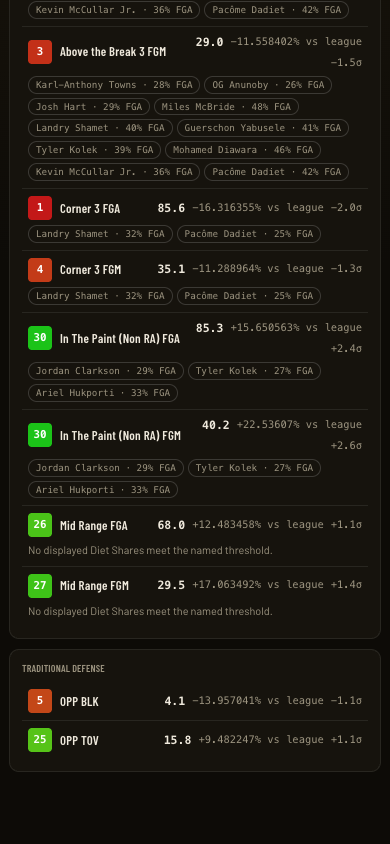
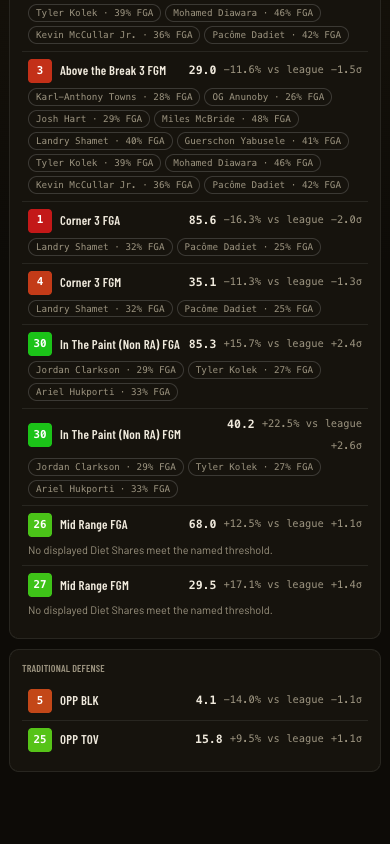
Format matchup percentages to one decimal

diff --git a/src/matchups/MatchupDetailPage.test.js b/src/matchups/MatchupDetailPage.test.js
@@ -83,8 +83,8 @@ const matchup = {
             sliceKey: 'transition',
             label: 'Transition',
             markets: ['PTS', 'FGA'],
-            season: value(18.4, 12, 1.4, 27),
-            last15: value(15.2, -8, -1.1, 5),
+            season: value(18.4, 12.34, 1.4, 27),
+            last15: value(15.2, -8.26, -1.1, 5),
           },
           {
             key: 'isolation',
@@ -275,7 +275,7 @@ test('toggles delivered windows and applies a two-sided sigma filter without ref
   expect(screen.getByText('Above-break three')).toBeVisible();
   expect(screen.queryByText('Isolation')).not.toBeInTheDocument();
   expect(screen.getByText('1 row hidden near league average.')).toBeVisible();
-  expect(screen.getByText('+12% vs league')).toBeVisible();
+  expect(screen.getByText('+12.3% vs league')).toBeVisible();
   expect(
     screen.queryByRole('heading', { name: 'Traditional defensive columns' }),
   ).not.toBeInTheDocument();
@@ -289,7 +289,7 @@ test('toggles delivered windows and applies a two-sided sigma filter without ref
   ).toBeVisible();
 
   await userEvent.click(screen.getByRole('button', { name: 'Last 15' }));
-  expect(screen.getByText('-8% vs league')).toBeVisible();
+  expect(screen.getByText('-8.3% vs league')).toBeVisible();
   expect(screen.getByText(/19% poss/)).toBeVisible();
   expect(fetchMatchup).toHaveBeenCalledTimes(1);
 
@@ -304,6 +304,7 @@ test('toggles delivered windows and applies a two-sided sigma filter without ref
   await userEvent.click(screen.getByRole('button', { name: 'All' }));
   await userEvent.click(screen.getByRole('button', { name: 'All deviations' }));
   expect(screen.getByText('Isolation')).toBeVisible();
+  expect(screen.getByText('+4.0% vs league')).toBeVisible();
   expect(fetchMatchup).toHaveBeenCalledTimes(1);
 });
 

diff --git a/e2e/specs/matchup-detail.spec.js b/e2e/specs/matchup-detail.spec.js
@@ -248,8 +248,8 @@ test('@critical user opens a Defense Sheet and changes local spotting controls',
   await expect(page.getByText('Backcourt PTS')).toHaveCount(0);
   await expect(page.getByText('Isolation PTS')).toHaveCount(0);
   await expect(page.getByText('1 row hidden near league average.')).toBeVisible();
-  await expect(page.getByText('+12% vs league')).toBeVisible();
-  await expect(page.getByText('-11% vs league')).toBeVisible();
+  await expect(page.getByText('+12.0% vs league')).toBeVisible();
+  await expect(page.getByText('-11.0% vs league')).toBeVisible();
   await expect(page.getByText(/LeBron James · 19% poss/)).toBeVisible();
   await expect(page.getByText(/Austin Reaves · 18% poss/)).toBeVisible();
   await expect(page.getByText(/LeBron James · 27% FGA/)).toBeVisible();

diff --git a/src/matchups/MatchupDetailPage.js b/src/matchups/MatchupDetailPage.js
@@ -459,7 +459,7 @@ function DefenseSheet({
                           ) : (
                             <span>
                               {stat.percentVsLeagueAverage > 0 ? '+' : ''}
-                              {stat.percentVsLeagueAverage}% vs league
+                              {stat.percentVsLeagueAverage.toFixed(1)}% vs league
                             </span>
                           )}
                           <span>
